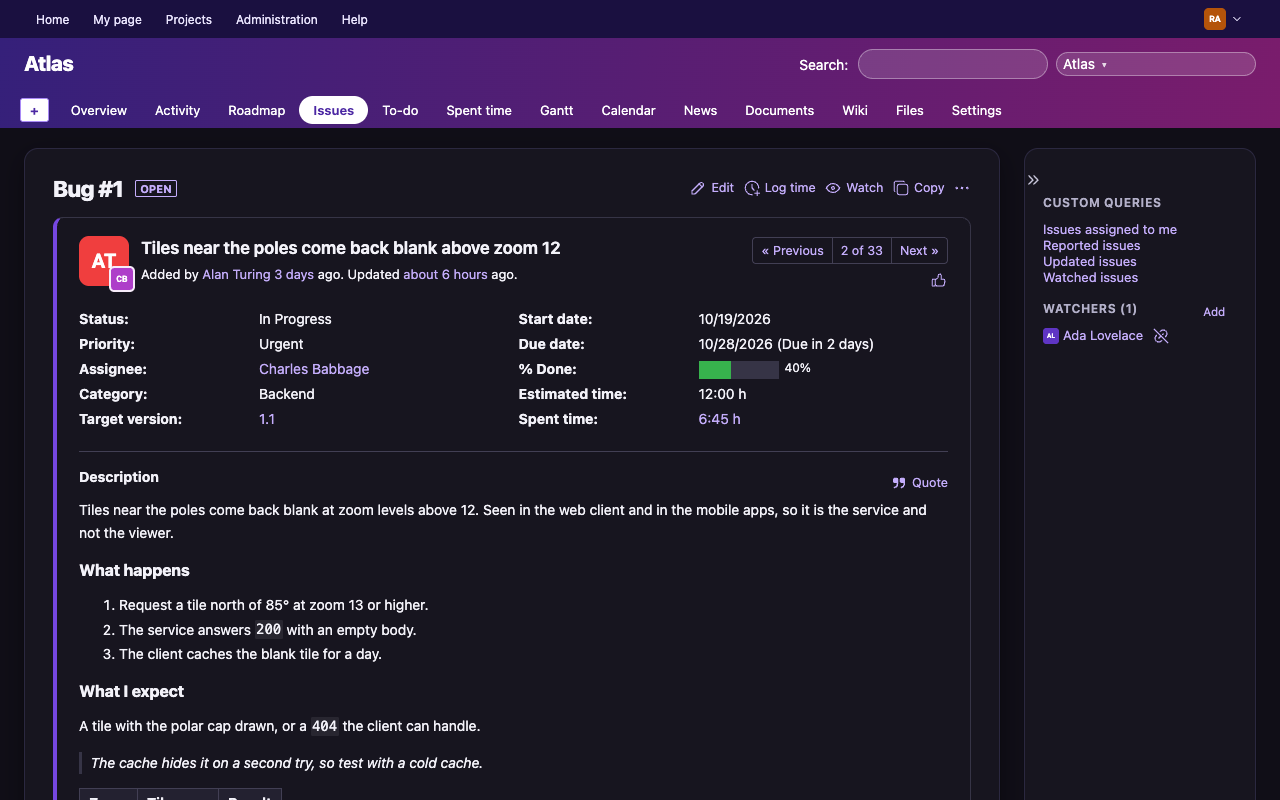
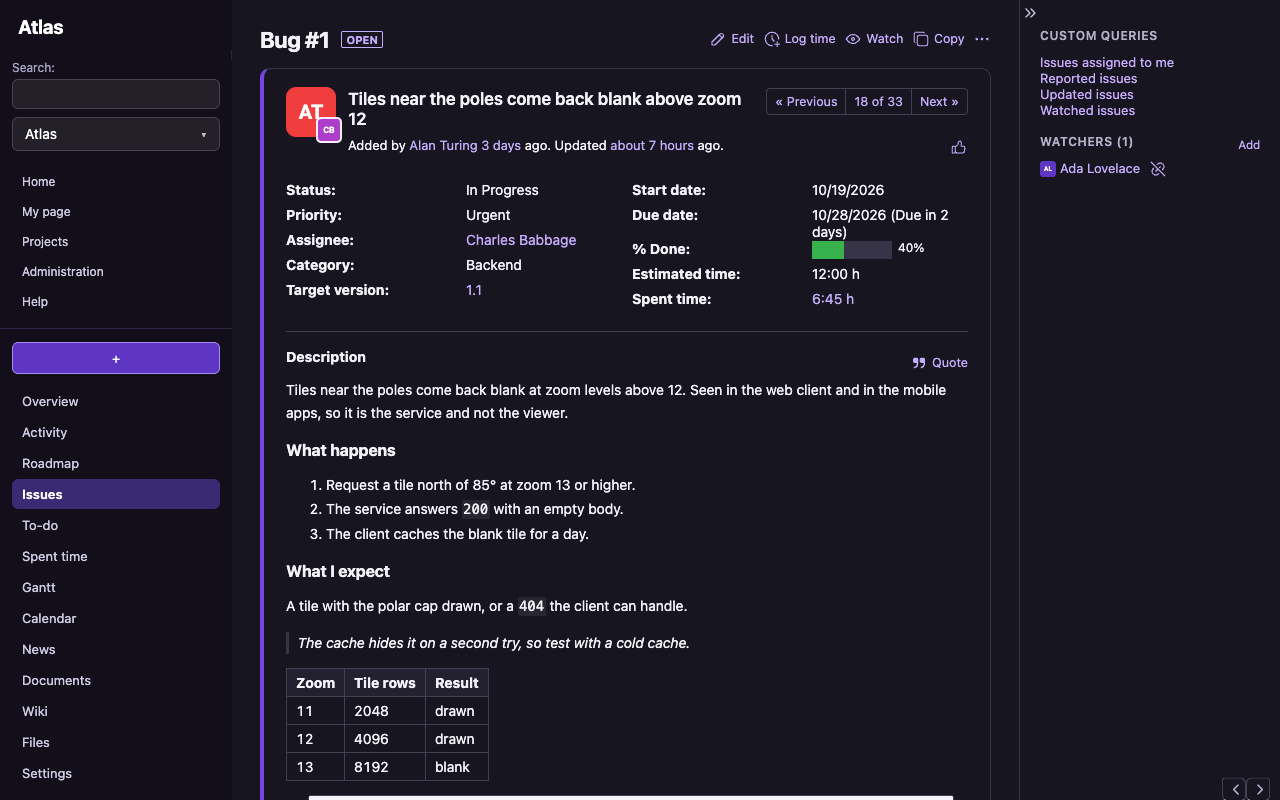
docs: screenshots and walkthroughs for the task list look, and say the theme has one small script
refs #1630

diff --git a/README.md b/README.md
@@ -2,13 +2,13 @@
 
 A violet-to-magenta band across the top, with pill menus, and white cards on a soft tinted canvas.
 
-A theme for Redmine 7 and up. It is CSS only, with no script, no plugin and no change to Redmine itself. Light first, with a dark set that follows your system setting (see [Dark mode](#dark-mode)).
+A theme for Redmine 7 and up. It is CSS plus one small script (`javascripts/theme.js`, about 70 lines), with no plugin and no change to Redmine itself. The script only reads the page: it colours status group headers, adds initials next to assignees and builds a row of view tabs. Without it the theme still works, with plainer lists. Light first, with a dark set that follows your system setting (see [Dark mode](#dark-mode)).
 
 ![A walk through Amethyst: the issue list, an issue, the wiki, the to-do page and the new-issue form](docs/demo/walkthrough-light.gif)
 
 | | |
 |---|---|
-| ![The issue list](docs/screenshots/issues-light.png) | ![An issue](docs/screenshots/issue-light.png) |
+| ![The issue list, grouped by status](docs/screenshots/issues-grouped-light.png) | ![An issue](docs/screenshots/issue-light.png) |
 | ![The wiki](docs/screenshots/wiki-light.png) | ![The to-do page](docs/screenshots/todo-light.png) |
 | ![The project list](docs/screenshots/projects-light.png) | ![The new issue form](docs/screenshots/new-issue-light.png) |
 
@@ -18,7 +18,7 @@ Dark mode:
 
 | | |
 |---|---|
-| ![The issue list in dark mode](docs/screenshots/issues-dark.png) | ![An issue in dark mode](docs/screenshots/issue-dark.png) |
+| ![The issue list in dark mode](docs/screenshots/issues-grouped-dark.png) | ![An issue in dark mode](docs/screenshots/issue-dark.png) |
 
 ## Contents
 

diff --git a/CHANGELOG.md b/CHANGELOG.md
@@ -7,7 +7,9 @@ All notable changes to this theme. The format follows [Keep a Changelog](https:/
 ### Added
 
 - Amethyst: cool neutrals and a violet accent on a white page, in the Open Color variables Redmine 7 is built on.
-- A violet-to-magenta band across the top holds the title, search, project jump and the menus, which are pills. The page is a white card on a soft tinted canvas, and the sidebar is a second card. The administration menu stays on the left on every admin page.
+- On screens 1100px and wider, all navigation moves into a light left sidebar, in plain CSS: the title, search and project jump, the general links, the project menu (or the administration menu) and, at the bottom, the profile. Narrower screens and the login page keep Redmine's own layout.
+- The issue list reads as a task list: a status dot, a priority flag and a tracker square on every row (CSS, from the row's own classes), status groups with a coloured pill header and a count, round initials for the assignee, and Issues, Gantt, Calendar and Activity as tabs above the list. The last three come from one small script, `javascripts/theme.js`, which only reads the page.
+- Activity is a quiet feed: a small date label, then rows with hairlines.
 - Tighter spacing, small capitals in table headers, striped rows and thin column lines, an issue card with a violet edge, a login card.
 - A dark set for the system dark setting, in one block at the end of the stylesheet.
 - The theme skeleton, the demo Redmine, the page check, the screenshot script and the recorder.
